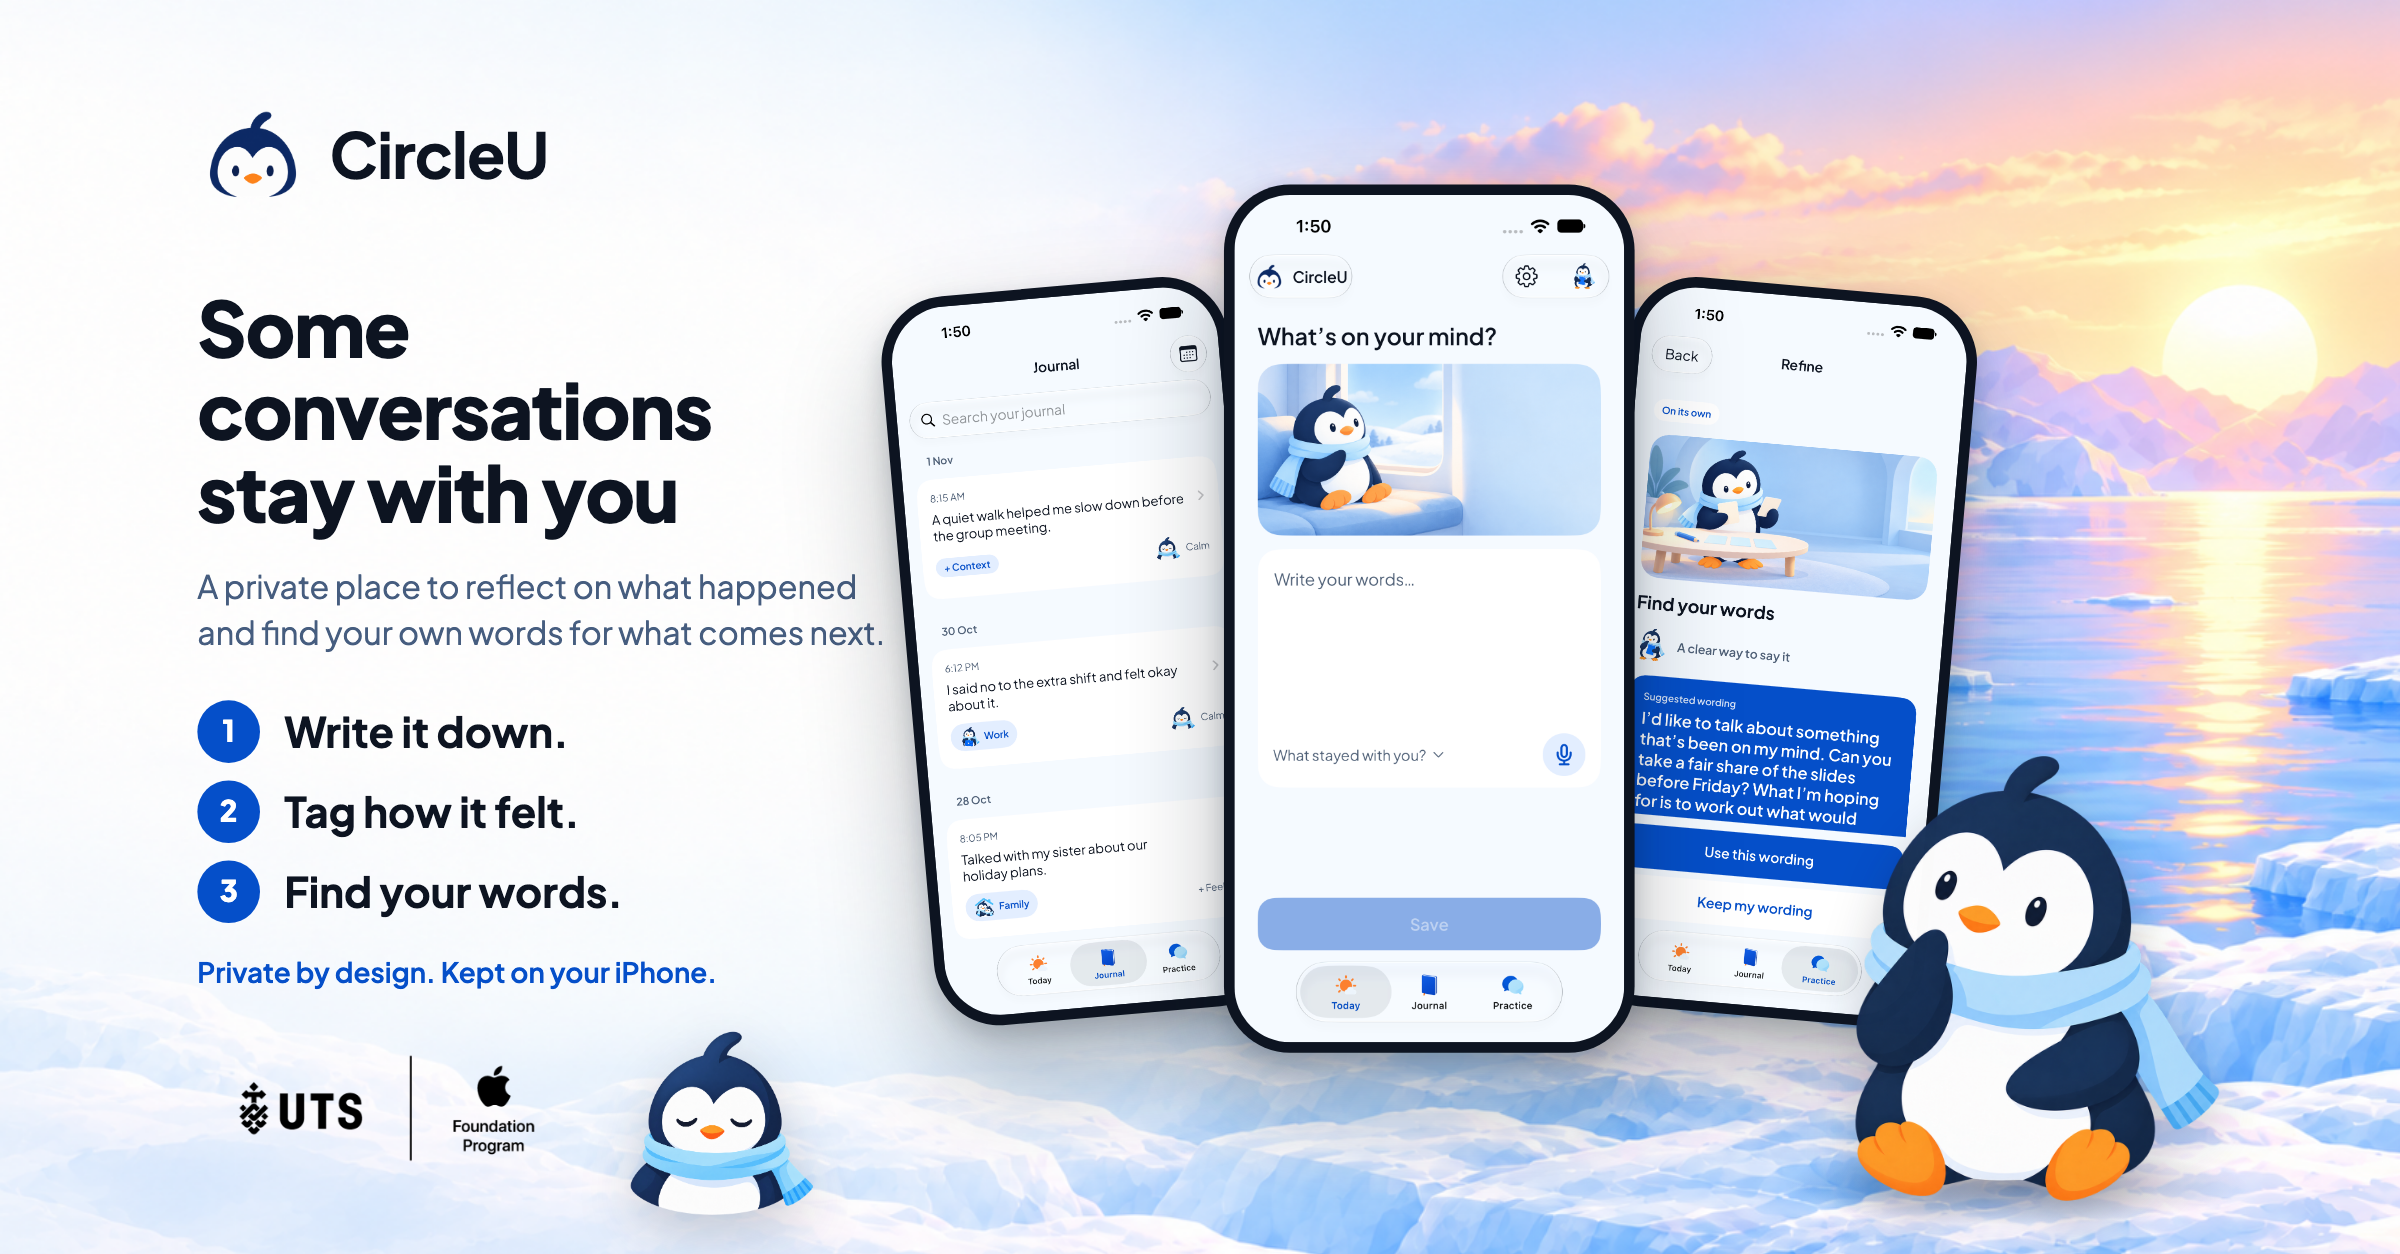
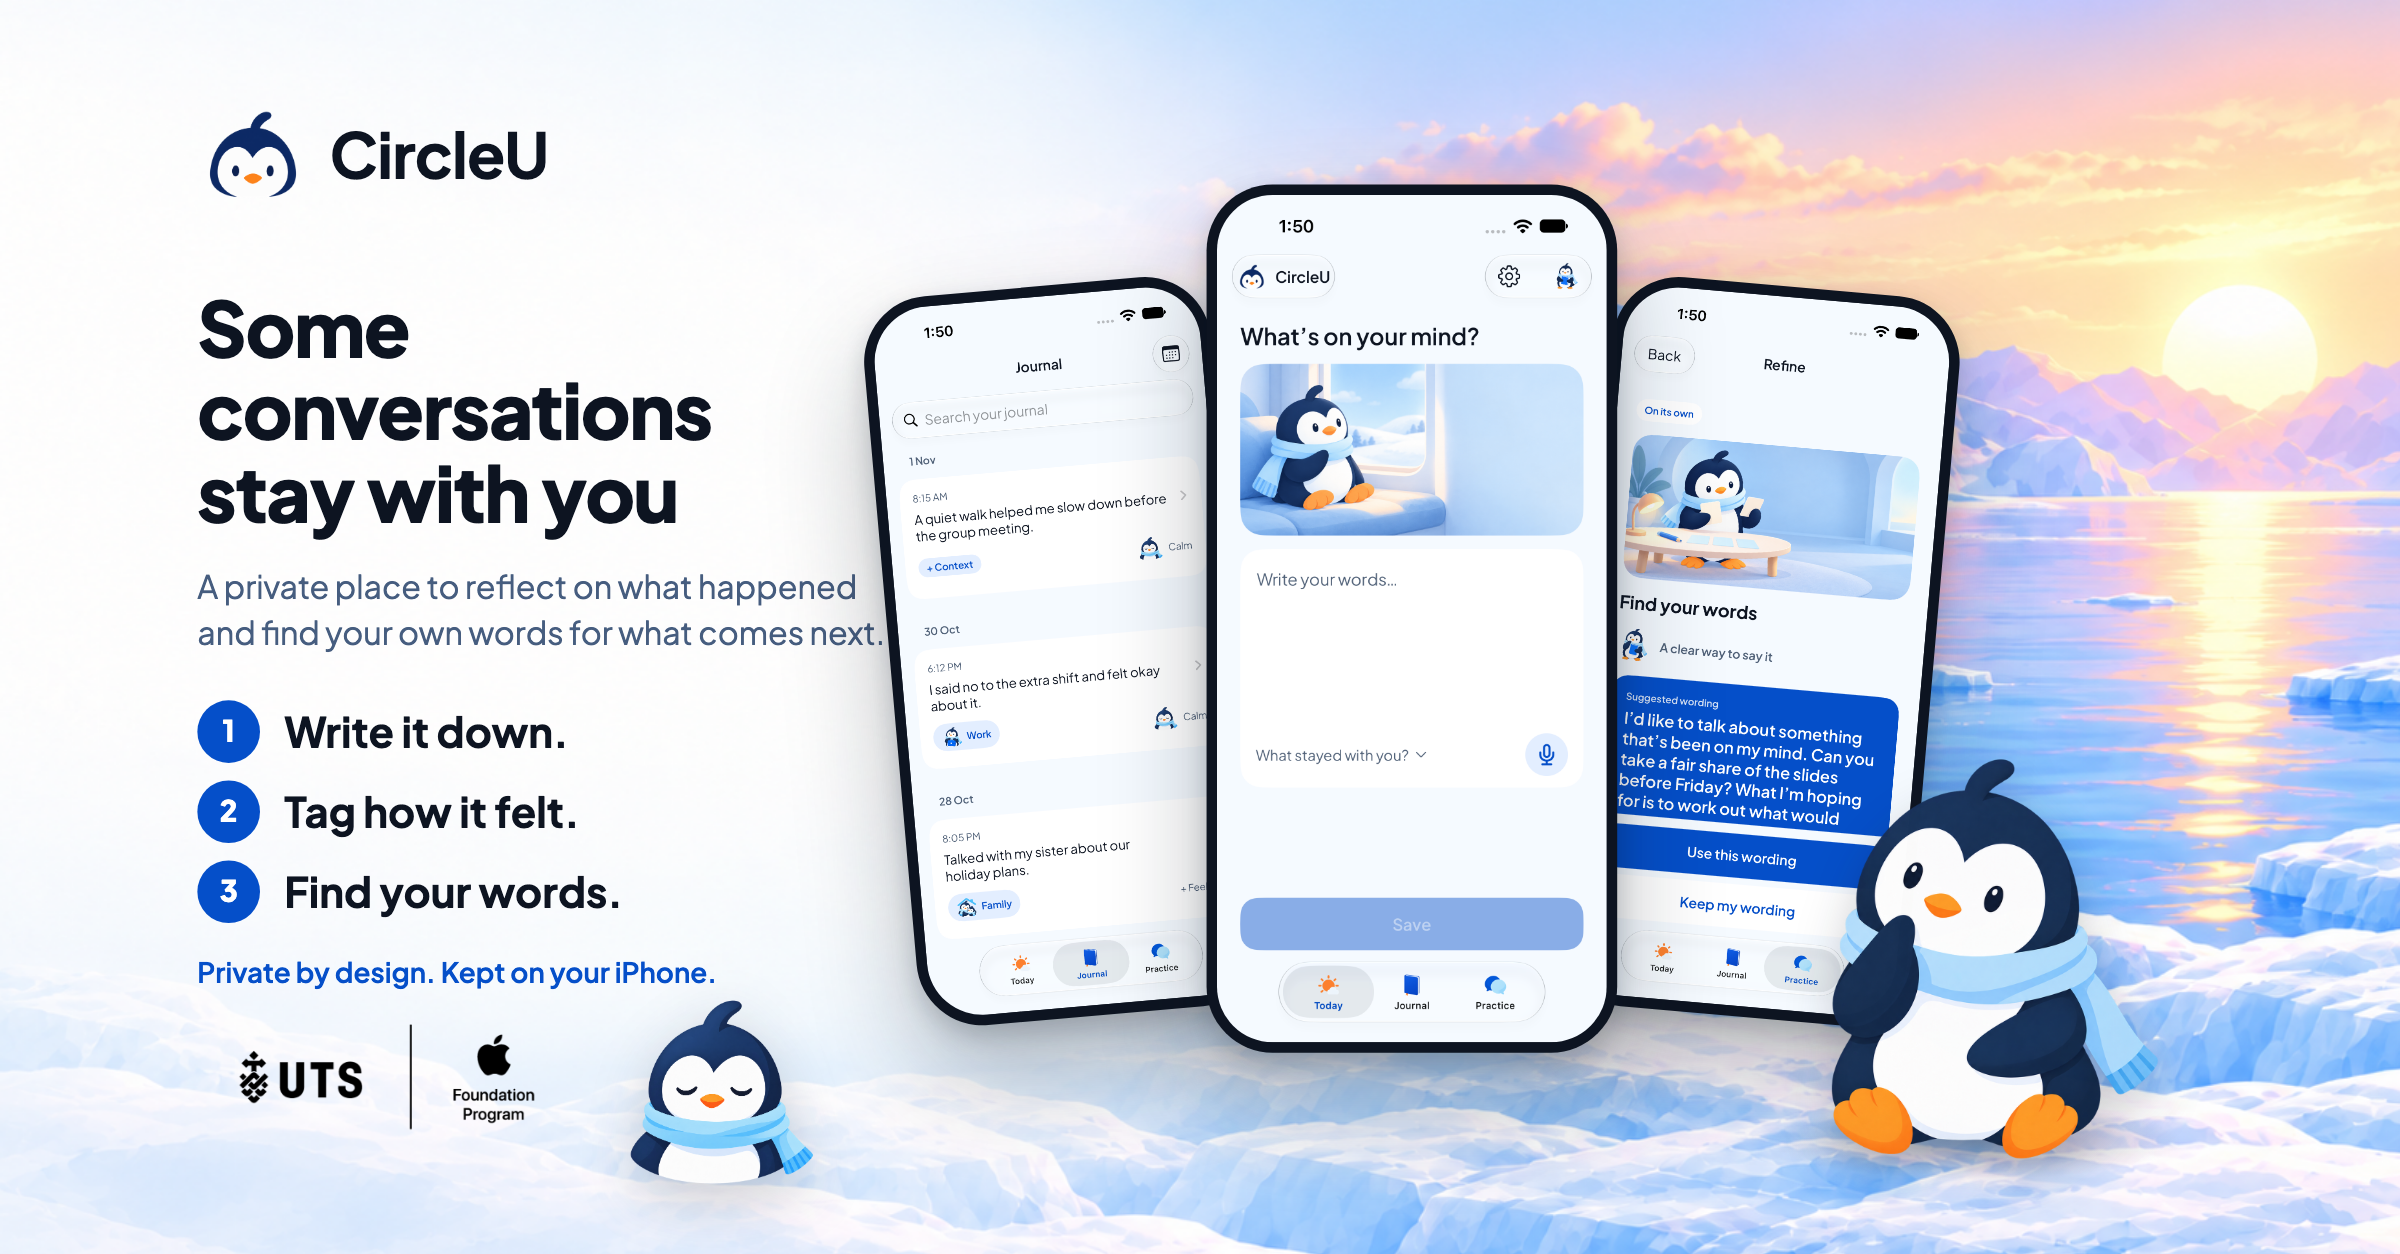
docs(poster): both Pingus and the lockup pulled in from the edges on both sizes

diff --git a/docs/design/showcase-2026-10-30/refinement-07/poster.html b/docs/design/showcase-2026-10-30/refinement-07/poster.html
@@ -21,8 +21,8 @@
   /* Hides the text baked into the cover artwork; the scene and Pingu on the right stay untouched. */
   /* The journal Pingu (the same figure as in the v6 artwork, as its transparent original), sitting on
      the ice shelf at the right with a soft ground shadow so he belongs to the scene. */
-  .hero { position: absolute; right: 26px; bottom: 14px; width: 292px; z-index: 5; filter: drop-shadow(0 10px 14px rgba(13,20,33,.22)); }
-  .hero-shadow { position: absolute; right: 36px; bottom: 16px; width: 270px; height: 44px; border-radius: 50%; z-index: 4;
+  .hero { position: absolute; right: 64px; bottom: 40px; width: 262px; z-index: 5; filter: drop-shadow(0 10px 14px rgba(13,20,33,.22)); }
+  .hero-shadow { position: absolute; right: 74px; bottom: 42px; width: 240px; height: 44px; border-radius: 50%; z-index: 4;
                  background: radial-gradient(ellipse at center, rgba(13,20,33,.28) 0%, rgba(13,20,33,0) 70%); }
   .left { position: absolute; left: 64px; top: 56px; width: 400px; }
   .wordmark { display: flex; align-items: center; gap: 12px; }
@@ -36,12 +36,12 @@
   .steps li::before { content: counter(step); width: 36px; height: 36px; border-radius: 50%; background: #054fc9; color: #fff;
                       font-size: 17px; font-weight: 800; display: inline-flex; align-items: center; justify-content: center; flex: none; }
   .trust { margin-top: 18px; font-size: 16px; font-weight: 600; color: #054fc9; }
-  .foot { position: absolute; left: 66px; bottom: 22px; display: flex; align-items: flex-end; gap: 22px; }
+  .foot { position: absolute; left: 66px; bottom: 40px; display: flex; align-items: flex-end; gap: 22px; }
   /* The official lockup is black on white; multiply lets the ice show through its white box. */
   .foot img.lockup { height: 120px; mix-blend-mode: multiply; }
   .foot img.pingu { height: 120px; margin-bottom: -6px; filter: drop-shadow(0 10px 16px rgba(13,20,33,.2)); }
 
-  .phones { position: absolute; left: 472px; top: 44px; width: 600px; height: 676px; }
+  .phones { position: absolute; left: 462px; top: 44px; width: 600px; height: 676px; }
   .phone { position: absolute; border-radius: 38px; background: #0d1421; padding: 6px;
            box-shadow: 0 30px 60px rgba(13,20,33,.28), 0 6px 14px rgba(13,20,33,.18); }
   .phone img { display: block; border-radius: 32px; width: 100%; }

diff --git a/docs/design/showcase-2026-10-30/refinement-07/poster-linkedin.html b/docs/design/showcase-2026-10-30/refinement-07/poster-linkedin.html
@@ -24,8 +24,8 @@
   /* Hides the text baked into the cover artwork; the scene and Pingu on the right stay untouched. */
   /* The journal Pingu (the same figure as in the v6 artwork, as its transparent original), sitting on
      the ice shelf at the right with a soft ground shadow so he belongs to the scene. */
-  .hero { position: absolute; right: 26px; bottom: 14px; width: 292px; z-index: 5; filter: drop-shadow(0 10px 14px rgba(13,20,33,.22)); }
-  .hero-shadow { position: absolute; right: 36px; bottom: 16px; width: 270px; height: 44px; border-radius: 50%; z-index: 4;
+  .hero { position: absolute; right: 64px; bottom: 40px; width: 262px; z-index: 5; filter: drop-shadow(0 10px 14px rgba(13,20,33,.22)); }
+  .hero-shadow { position: absolute; right: 74px; bottom: 42px; width: 240px; height: 44px; border-radius: 50%; z-index: 4;
                  background: radial-gradient(ellipse at center, rgba(13,20,33,.28) 0%, rgba(13,20,33,0) 70%); }
   .left { position: absolute; left: 64px; top: 56px; width: 400px; }
   .wordmark { display: flex; align-items: center; gap: 12px; }
@@ -39,11 +39,11 @@
   .steps li::before { content: counter(step); width: 36px; height: 36px; border-radius: 50%; background: #054fc9; color: #fff;
                       font-size: 17px; font-weight: 800; display: inline-flex; align-items: center; justify-content: center; flex: none; }
   .trust { margin-top: 18px; font-size: 16px; font-weight: 600; color: #054fc9; }
-  .foot { position: absolute; left: 66px; bottom: 22px; display: flex; align-items: flex-end; gap: 22px; }
+  .foot { position: absolute; left: 66px; bottom: 40px; display: flex; align-items: flex-end; gap: 22px; }
   .foot img.lockup { height: 120px; mix-blend-mode: multiply; }
   .foot img.pingu { height: 120px; margin-bottom: -6px; filter: drop-shadow(0 10px 16px rgba(13,20,33,.2)); }
 
-  .phones { position: absolute; left: 472px; top: 44px; width: 600px; height: 676px; }
+  .phones { position: absolute; left: 462px; top: 44px; width: 600px; height: 676px; }
   .phone { position: absolute; border-radius: 38px; background: #0d1421; padding: 6px;
            box-shadow: 0 30px 60px rgba(13,20,33,.28), 0 6px 14px rgba(13,20,33,.18); }
   .phone img { display: block; border-radius: 32px; width: 100%; }
